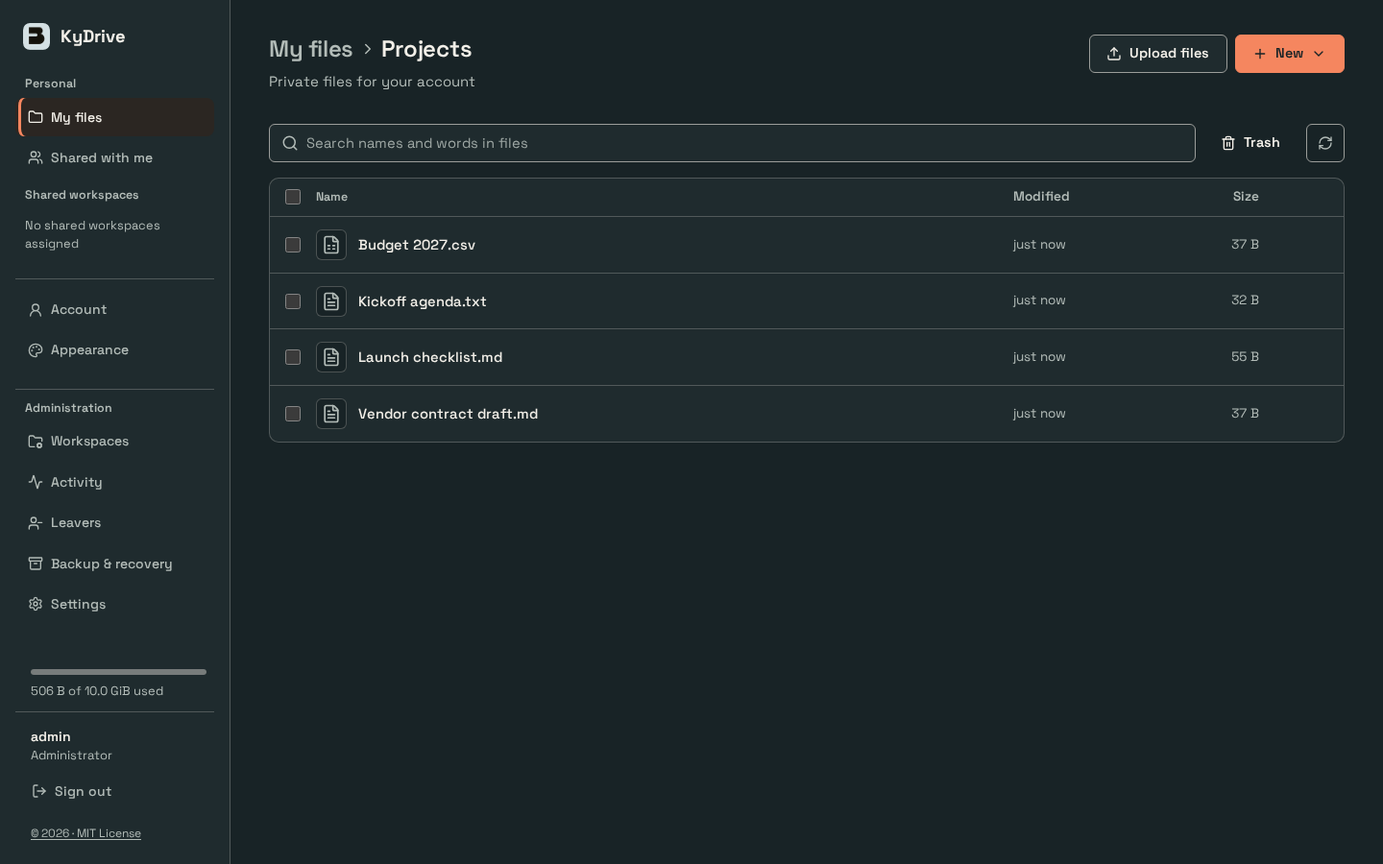
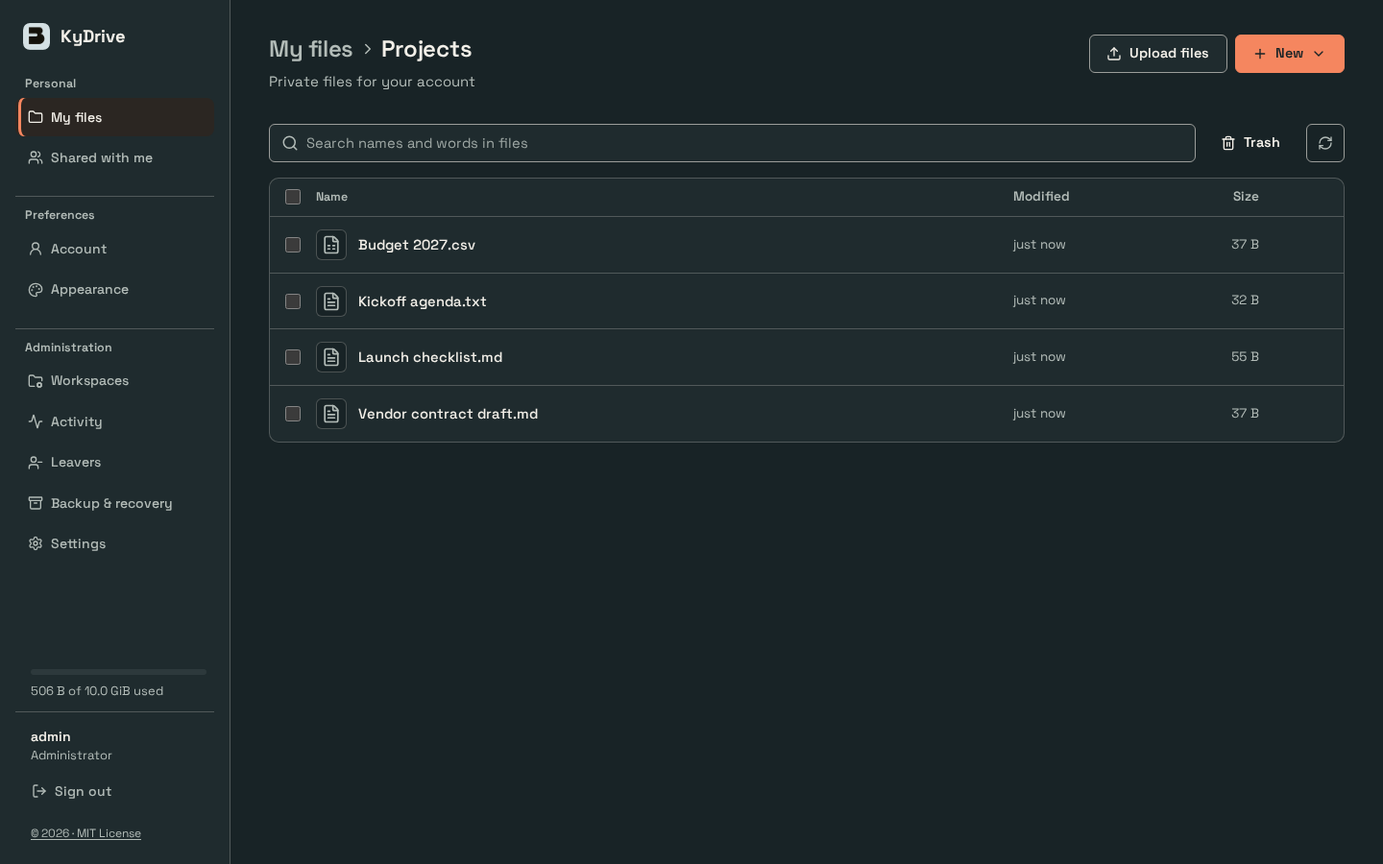
Council round 2: honest storage, touch row menus, schedule state
- The storage meter is a light track with an accent fill sized to the
  share used, so near-empty storage reads as empty (unit-tested).
- Row menus always show on touch, coarse pointers and phones.
- The Backup schedule card says it waits for a recovery key or a
  destination instead of showing a next run it cannot make.
- Activity names audit actions in sentence case; the raw ID is the title.
- The nav hides the Shared workspaces label when there are none and
  labels Account and Appearance as Preferences.
- New shared workspace closes with Cancel (no icon); disabled Account
  buttons use the shared disabled style; the phone header is ~50px
  shorter with the hint and licence on one row.

Changed region(s): [[0.0, 0.2178, 0.125, 0.6533], [0.0312, 0.7467, 0.125, 0.8089], [0.0312, 0.6844, 0.0625, 0.7156]]

diff --git a/web/src/styles/theme.css b/web/src/styles/theme.css
@@ -119,10 +119,8 @@ summary:focus-visible { outline-offset: 4px; }
 .app-nav-empty { font-size: .8rem; color: var(--ink); padding: .4rem .65rem; }
 .app-header-actions { display: flex; flex-direction: column; gap: .75rem; margin-top: auto; }
 .sidebar-storage { display: grid; gap: .4rem; padding: 0 var(--ky-space-2) 0 var(--ky-space-3); font-size: var(--ky-type-meta); color: var(--ink); }
-.sidebar-storage meter { -webkit-appearance: none; appearance: none; width: 100%; height: 6px; border: 0; border-radius: 999px; background: var(--line); overflow: hidden; }
-.sidebar-storage meter::-webkit-meter-bar { height: 6px; border: 0; border-radius: 999px; background: var(--line); }
-.sidebar-storage meter::-webkit-meter-optimum-value { border-radius: 999px; background: var(--accent); }
-.sidebar-storage meter::-moz-meter-bar { border-radius: 999px; background: var(--accent); }
+.storage-bar { height: 6px; border-radius: 999px; background: color-mix(in srgb, var(--ink) 10%, transparent); overflow: hidden; }
+.storage-bar-fill { display: block; height: 100%; border-radius: inherit; background: var(--accent); }
 .app-preference { display: flex; align-items: center; gap: .55rem; font-size: .82rem; color: var(--ink); cursor: pointer; }
 .app-main { min-width: 0; }
 .app-notice { margin: 1.5rem 2.5rem 0; }
@@ -148,7 +146,6 @@ summary:focus-visible { outline-offset: 4px; }
 .panel-header > :first-child { display: flex; align-items: center; gap: .5rem; }
 .panel-header svg { color: var(--ink); }
 .panel-section { margin-top: 1.5rem; padding-top: 1.25rem; border-top: 1px solid var(--line); }
-.account-page button:disabled { opacity: 1; background: var(--panel-hover); border-color: var(--line-strong); color: var(--ink); }
 .account-page .panel-section > .empty-note { border-top: 0; padding-top: .35rem; }
 .account-preferences h2 { font-size: var(--ky-type-section); font-weight: 600; margin-bottom: .75rem; }
 .account-preferences .app-preference { font-size: var(--ky-type-body); }
@@ -344,7 +341,8 @@ dialog.dialog::backdrop, dialog.drive-preview-dialog::backdrop { background: rgb
 .drive-table td.num { width: 7rem; }
 /* Row menus are borderless and appear on row hover or focus; keyboard users reach them by Tab. */
 .row-menu > .icon-btn, .row-menu > .icon-btn:hover:not(:disabled) { border-color: transparent; }
-@media (hover: hover) {
+/* Touch screens and phones have no hover: their row menus always show. */
+@media (hover: hover) and (pointer: fine) and (min-width: 721px) {
   .drive-table tbody tr .row-menu > .icon-btn { opacity: 0; }
   .drive-table tbody tr:is(:hover, :focus-within, .is-selected) .row-menu > .icon-btn,
   .row-menu > .icon-btn[aria-expanded="true"] { opacity: 1; }
@@ -465,9 +463,9 @@ a.drive-file-name:hover, .drive-file-name.btn-link:hover { color: var(--ink-stro
 /* Phones retain identity beside the brand and keep every destination in one scrolling row. */
 @media (max-width: 720px) {
   .app-shell { display: block; }
-  .app-header { position: static; height: auto; overflow: visible; display: grid; grid-template-columns: minmax(0, 1fr) auto; align-items: center; gap: 8px 12px; padding: 12px 16px 8px; border-right: 0; border-bottom: 1px solid var(--line); }
+  .app-header { position: static; height: auto; overflow: visible; display: grid; grid-template-columns: minmax(0, 1fr) auto; align-items: center; gap: 2px 12px; padding: 6px 16px 6px; border-right: 0; border-bottom: 1px solid var(--line); }
   .app-brand { padding: 0; grid-row: 1; }
-  .app-navs { display: flex; grid-column: 1 / -1; grid-row: 2; gap: 4px; overflow-x: auto; scrollbar-width: none; margin: 0 -16px; padding: 4px 16px; }
+  .app-navs { display: flex; grid-column: 1 / -1; grid-row: 2; gap: 4px; overflow-x: auto; scrollbar-width: none; margin: 0 -16px; padding: 2px 16px 4px; }
   .app-nav { flex: none; flex-direction: row; gap: 4px; }
   .app-nav + .app-nav { padding: 0 0 0 4px; border-top: 0; border-left: 1px solid var(--line); }
   .app-nav button { width: auto; flex: 0 0 auto; min-height: 2.5rem; border-left: 0; border-bottom: 3px solid transparent; white-space: nowrap; }
@@ -476,7 +474,7 @@ a.drive-file-name:hover, .drive-file-name.btn-link:hover { color: var(--ink-stro
   .app-nav-label { display: none; }
   .app-nav-empty { display: none; }
   .app-header-actions { display: contents; }
-  .app-nav-hint { display: block; grid-column: 1 / -1; grid-row: 3; font-size: .75rem; color: var(--ink); }
+  .app-nav-hint { display: block; grid-column: 1; grid-row: 3; font-size: .75rem; color: var(--ink); }
   .drive-preview-dialog header { grid-template-columns: minmax(0, 1fr) auto; padding: 1rem; }
   .drive-preview-dialog header .button-row { grid-column: 1 / -1; grid-row: 2; }
   .drive-preview-dialog header .icon-btn { grid-column: 2; }
@@ -488,8 +486,9 @@ a.drive-file-name:hover, .drive-file-name.btn-link:hover { color: var(--ink-stro
   .app-header .ky-user-copy { max-width: 8rem; padding: 0; }
   .app-header :is(.ky-user-name, .ky-user-role) { font-size: .75rem; }
   .app-header .ky-user-signout { width: auto; padding: 0 .6rem; }
-  .app-header-actions > footer, .sidebar-storage { grid-column: 1 / -1; }
-  .sidebar-storage { grid-template-columns: 6rem auto; align-items: center; justify-content: start; gap: .6rem; padding: 0; }
+  /* Hint and licence share a row; storage sits under them. */
+  .app-header-actions > footer { grid-column: 2; grid-row: 3; justify-self: end; }
+  .sidebar-storage { grid-column: 1 / -1; grid-row: 4; grid-template-columns: 5rem auto; align-items: center; justify-content: start; gap: .6rem; padding: 0; }
   .app-header .ky-license-link { margin-left: 0; }
   .drive-crumb .btn-link { font-size: 1.4rem; }
   .ky-page-head > .page-actions { width: 100%; }

diff --git a/web/src/pages/auditLabels.ts b/web/src/pages/auditLabels.ts
@@ -1,0 +1,69 @@
+// Readable labels for audit action IDs; unknown IDs fall back to the ID in sentence case.
+const labels: Record<string, string> = {
+  'admin.backup_export': 'Capsule downloaded',
+  'admin.backup_key_pin': 'Recovery key pinned',
+  'admin.backup_run': 'Backup run',
+  'admin.backup_schedule': 'Backup schedule changed',
+  'admin.backup_unpair': 'KyRecovery unpaired',
+  'admin.bulk_retention': 'Document retention changed',
+  'admin.device_policy': 'Computer policy changed',
+  'admin.guest_links': 'Guest link policy changed',
+  'admin.trash_retention': 'Trash retention changed',
+  'app_password.created': 'App password created',
+  'app_password.expired': 'App password expired',
+  'app_password.revoked': 'App password revoked',
+  'app_password.scope_changed': 'Agent access changed',
+  'auth.directory_role_changed': 'Directory role changed',
+  'auth.local_admin_renamed': 'Local administrator renamed',
+  'auth.login': 'Signed in',
+  'auth.mfa_disabled': 'Two-step verification turned off',
+  'auth.mfa_enabled': 'Two-step verification turned on',
+  'auth.mfa_recovery_code': 'Recovery code used',
+  'auth.mfa_totp': 'Authenticator code used',
+  'auth.password_changed': 'Password changed',
+  'auth.sso_backchannel_logout': 'Signed out by single sign-on',
+  'backup.paired': 'Paired with KyRecovery',
+  'backup.pair_failed': 'KyRecovery pairing failed',
+  'device.linked': 'Computer linked',
+  'device.revoked': 'Computer revoked',
+  'file.moved': 'File moved',
+  'file.purged': 'File deleted permanently',
+  'file.retention_purged': 'File removed by retention',
+  'file.trash_changed': 'File trashed or restored',
+  'file.version_created': 'New version uploaded',
+  'folder.created': 'Folder created',
+  'folder.moved': 'Folder moved',
+  'folder.purged': 'Folder deleted permanently',
+  'folder.restored': 'Folder restored',
+  'folder.retention_purged': 'Folder removed by retention',
+  'folder.trashed': 'Folder moved to trash',
+  'link.created': 'Link created',
+  'link.opened': 'Link opened',
+  'link.revoked': 'Link revoked',
+  'share.removed': 'Share removed',
+  'share.saved': 'Shared',
+  'upload.cancelled': 'Upload cancelled',
+  'upload.started': 'Upload started',
+  'user.created': 'Account created',
+  'user.deactivated': 'Account deactivated',
+  'user.deleted': 'Account deleted',
+  'user.updated': 'Account updated',
+  'version.purged': 'Version deleted',
+  'version.retention_purged': 'Version removed by retention',
+  'workspace.created': 'Workspace created',
+  'workspace.deleted': 'Workspace deleted',
+  'workspace.handed_over': 'Leaver files handed over',
+  'workspace.permission_changed': 'Group permission changed',
+  'workspace.personal_created': 'My files created',
+  'workspace.quota_changed': 'Quota changed',
+  'workspace.renamed': 'Workspace renamed',
+  'workspace.retention_changed': 'Workspace retention changed',
+  'workspace.sharing_changed': 'Editor sharing changed',
+};
+
+export function auditLabel(action: string): string {
+  const known = labels[action];
+  if (known) return known;
+  const words = action.replace(/[._]+/g, ' ').trim();
+  return words ? words[0].toUpperCase() + words.slice(1) : action;
+}

diff --git a/web/src/components/AppHeader.tsx b/web/src/components/AppHeader.tsx
@@ -37,6 +37,14 @@ const adminItems: NavItem[] = [
   { id: 'settings', label: 'Settings', icon: SettingsIcon },
 ];
 
+// A light track with an accent fill sized to the share used, so near-empty storage reads as empty.
+export function StorageBar({ used, quota }: { used: number; quota: number }) {
+  const percent = quota > 0 ? Math.min(100, Math.max(0, used / quota * 100)) : 0;
+  return <div className="storage-bar" role="meter" aria-label="Storage used" aria-valuemin={0} aria-valuemax={quota} aria-valuenow={Math.min(used, quota)} aria-valuetext={`${bytes(used)} of ${bytes(quota)} used`}>
+    <span className="storage-bar-fill" style={{ width: `${percent}%` }} />
+  </div>;
+}
+
 export const AppHeader: React.FC<AppHeaderProps> = ({ appName, activeTab, onTabChange, user, onLogout, workspaces, selectedWorkspace, onWorkspaceSelect, version }) => {
   const navsRef = useRef<HTMLDivElement>(null);
   const aboutRef = useRef<HTMLDialogElement>(null);
@@ -83,11 +91,10 @@ export const AppHeader: React.FC<AppHeaderProps> = ({ appName, activeTab, onTabC
             <h2 className="app-nav-label">Personal</h2>
             {workspaces.filter(w => w.kind === 'personal').map(w => item(w.id, 'My files', Folder, drive(w.id), () => onWorkspaceSelect(w.id)))}
             {item(SHARED_WITH_ME, 'Shared with me', Users, drive(SHARED_WITH_ME), () => onWorkspaceSelect(SHARED_WITH_ME))}
-            <h2 className="app-nav-label">Shared workspaces</h2>
+            {workspaces.some(w => w.kind === 'shared') && <h2 className="app-nav-label">Shared workspaces</h2>}
             {workspaces.filter(w => w.kind === 'shared').map(w => item(w.id, w.name, Folder, drive(w.id), () => onWorkspaceSelect(w.id)))}
-            {!workspaces.some(w => w.kind === 'shared') && <p className="app-nav-empty">No shared workspaces assigned</p>}
           </nav>
-          <nav className="app-nav" aria-label="Primary">{tabs(accountItems)}</nav>
+          <nav className="app-nav" aria-label="Primary"><h2 className="app-nav-label">Preferences</h2>{tabs(accountItems)}</nav>
           {user.role === 'admin' && <nav className="app-nav" aria-label="Administration">
             <h2 className="app-nav-label">Administration</h2>
             {tabs(adminItems)}
@@ -96,7 +103,7 @@ export const AppHeader: React.FC<AppHeaderProps> = ({ appName, activeTab, onTabC
         <p className="app-nav-hint">Scroll for more destinations</p>
         <div className="app-header-actions">
           {personal && personal.quota > 0 && <div className="sidebar-storage">
-            <meter min={0} max={personal.quota} value={Math.min(personal.used, personal.quota)} aria-label="Storage used" />
+            <StorageBar used={personal.used} quota={personal.quota} />
             <p>{bytes(personal.used)} of {bytes(personal.quota)} used</p>
           </div>}
           <div className="ky-user">

diff --git a/web/src/pages/Admin.tsx b/web/src/pages/Admin.tsx
@@ -6,6 +6,7 @@ import { When } from '../components/When';
 import { HttpError, bytes, change, list, record, response, workspace } from './drive/client';
 import type { Workspace } from './drive/client';
 import { Leavers } from './drive/Leavers';
+import { auditLabel } from './auditLabels';
 
 // Administration destinations in the sidebar: shared workspaces, operational status and leavers.
 
@@ -44,7 +45,7 @@ export function AdminWorkspaces({ workspaces, onWorkspacesChange, onOpen }: { wo
         <td className="num">{bytes(w.used)}</td><td className="num">{bytes(w.quota)}</td>
       </tr>)}</tbody>
     </table></div></div>}
-    {creating && <Dialog title="New shared workspace" description="Give a KyIdentity group access from its Workspace settings once it exists." onClose={() => setCreating(false)} onSubmit={() => void create()}
+    {creating && <Dialog closeButton={false} title="New shared workspace" description="Give a KyIdentity group access from its Workspace settings once it exists." onClose={() => setCreating(false)} onSubmit={() => void create()}
       footer={<><button type="button" className="btn-secondary" onClick={() => setCreating(false)}>Cancel</button><button disabled={busy || !name.trim()}>Create workspace</button></>}>
       <label className="field">Name<input autoFocus required value={name} onChange={e => setName(e.target.value)} /></label>
       <label className="field">Quota (MiB)<input type="number" min="1" required value={quota} onChange={e => setQuota(e.target.valueAsNumber)} /></label>
@@ -97,7 +98,7 @@ export function AdminActivity() {
       </section>
       <section className="panel" aria-labelledby="audit-heading">
         <h2 id="audit-heading">Recent audit events</h2>
-        {audit.length === 0 ? <p className="empty-note">No audit events yet.</p> : <ul className="drive-audit" aria-label="Recent audit events">{audit.map((e, i) => <li key={i}><When value={e.created} /><code>{e.action}</code></li>)}</ul>}
+        {audit.length === 0 ? <p className="empty-note">No audit events yet.</p> : <ul className="drive-audit" aria-label="Recent audit events">{audit.map((e, i) => <li key={i}><When value={e.created} /><span title={e.action}>{auditLabel(e.action)}</span></li>)}</ul>}
       </section>
     </div>
   </section>;

diff --git a/web/src/components/components.test.tsx b/web/src/components/components.test.tsx
@@ -1,7 +1,8 @@
 import { afterEach, describe, expect, it, vi } from 'vitest';
 import { act, cleanup, fireEvent, render, screen, within } from '@testing-library/react';
 import { Menu } from './Menu';
-import { AppHeader } from './AppHeader';
+import { AppHeader, StorageBar } from './AppHeader';
+import { auditLabel } from '../pages/auditLabels';
 import { useConfirm } from './Dialog';
 import { relative, toDate } from './time';
 import { When } from './When';
@@ -168,6 +169,30 @@ describe('Login', () => {
     expect(screen.getByRole('link', { name: 'Continue with Single Sign On' }).getAttribute('href')).toBe('/api/sso/kysignon/login');
     expect(container.querySelector('.ky-auth-divider')).toBeTruthy();
     vi.unstubAllGlobals();
+  });
+});
+
+describe('StorageBar', () => {
+  it('fills to the share used, so near-empty storage reads as empty', () => {
+    const fill = (used: number, quota: number) => {
+      const { container } = render(<StorageBar used={used} quota={quota} />);
+      const width = (container.querySelector('.storage-bar-fill') as HTMLElement).style.width;
+      cleanup();
+      return width;
+    };
+    expect(fill(506, 10 * 1024 ** 3)).toMatch(/^0\.0+\d*%$|^4\.\d+e-\d+%$/);
+    expect(parseFloat(fill(506, 10 * 1024 ** 3))).toBeLessThan(0.001);
+    expect(fill(512, 1024)).toBe('50%');
+    expect(fill(2048, 1024)).toBe('100%');
+    expect(fill(5, 0)).toBe('0%');
+  });
+});
+
+describe('auditLabel', () => {
+  it('names known actions in sentence case and falls back to the ID', () => {
+    expect(auditLabel('file.version_created')).toBe('New version uploaded');
+    expect(auditLabel('upload.started')).toBe('Upload started');
+    expect(auditLabel('scim.group.replaced')).toBe('Scim group replaced');
   });
 });
 

diff --git a/web/src/components/Dialog.tsx b/web/src/components/Dialog.tsx
@@ -4,8 +4,8 @@ import { X } from 'lucide-react';
 
 // Dialog is the suite's modal: a native <dialog> with a titled header, a scrolling body and a
 // footer of actions (secondary first, primary last). Escape and the close button call onClose.
-export function Dialog({ title, description, children, footer, onClose, onSubmit, wide, className }: {
-  title: ReactNode; description?: ReactNode; children?: ReactNode; footer?: ReactNode;
+export function Dialog({ title, description, children, footer, onClose, onSubmit, wide, className, closeButton = true }: {
+  title: ReactNode; description?: ReactNode; children?: ReactNode; footer?: ReactNode; closeButton?: boolean;
   onClose: () => void; onSubmit?: (e: FormEvent<HTMLFormElement>) => void; wide?: boolean; className?: string;
 }) {
   const ref = useRef<HTMLDialogElement>(null);
@@ -20,7 +20,8 @@ export function Dialog({ title, description, children, footer, onClose, onSubmit
   const inner = <>
     <header className="dialog-header">
       <div><h2 id={`${id}-title`}>{title}</h2>{description && <p>{description}</p>}</div>
-      <button type="button" className="icon-btn" aria-label="Close" onClick={onClose}><X size={18} aria-hidden="true" /></button>
+      {/* Without the icon, the footer's Cancel and Escape close the dialog. */}
+      {closeButton && <button type="button" className="icon-btn" aria-label="Close" onClick={onClose}><X size={18} aria-hidden="true" /></button>}
     </header>
     <div className="dialog-body">{children}</div>
     {footer && <footer className="dialog-footer">{footer}</footer>}

diff --git a/web/src/pages/Backup.tsx b/web/src/pages/Backup.tsx
@@ -434,10 +434,11 @@ export const Backup: React.FC = () => {
         <div className="dr-fact">
           <div className="dr-fact-label">
             <span>Schedule</span>
-            <Badge tone={scheduleOn ? 'success' : 'danger'}>{every(status?.interval_sec)}</Badge>
+            <Badge tone={scheduleOn && canBackUp ? 'success' : scheduleOn ? 'muted' : 'danger'}>{every(status?.interval_sec)}</Badge>
           </div>
-          <div className="dr-fact-value">{scheduleOn && status?.next_run_at ? `Next ${when(status.next_run_at)}` : 'Manual only'}</div>
-          <div className="dr-fact-note">Counts from the last attempt, successful or not</div>
+          {/* A schedule cannot run without a pinned key and a destination: say what it waits for. */}
+          <div className="dr-fact-value">{!scheduleOn ? 'Manual only' : !keyPinned ? 'Waiting for recovery key' : !canBackUp ? 'Waiting for a destination' : status?.next_run_at ? `Next ${when(status.next_run_at)}` : 'Manual only'}</div>
+          <div className="dr-fact-note">{scheduleOn && !canBackUp ? 'No scheduled run until backups can be made' : 'Counts from the last attempt, successful or not'}</div>
         </div>
       </div>
 

diff --git a/web/src/pages/Backup.test.tsx b/web/src/pages/Backup.test.tsx
@@ -41,6 +41,17 @@ describe('Backup', () => {
     expect(screen.getByText(/KY_BACKUP_DIR not set/)).toBeTruthy();
   });
 
+  it('says what a schedule waits for instead of a next run it cannot make', async () => {
+    mockStatus({ key_pinned: false, paired: false, interval_sec: 86400, next_run_at: '2026-10-31T12:00:00Z', database_driver: 'sqlite', members: [] });
+    render(<Backup />);
+    expect(await screen.findByText('Waiting for recovery key')).toBeTruthy();
+    expect(screen.queryByText(/^Next /)).toBeNull();
+    cleanup();
+    mockStatus({ ...PAIRED, next_run_at: '2026-10-31T12:00:00Z' });
+    render(<Backup />);
+    expect(await screen.findByText(/^Next /)).toBeTruthy();
+  });
+
   it('never renders the token', async () => {
     mockStatus({
       key_pinned: true,

diff --git a/web/AGENTS.md b/web/AGENTS.md
@@ -12,7 +12,7 @@ Owns user interface components, service worker caching, PWA installation manifes
 - Sign-out resets the shell (user, workspaces, selection, tab, settings, new-tab preference) only after the server confirms; a failed or unreachable logout keeps the session and shows an error.
 - A signed-in user with `must_change_password` sees only password replacement and sign-out. Replacement uses `secureFetch`, returns to login after session revocation, and never exposes the normal navigation before completion.
 - Strict TypeScript type safety without unused imports.
-- The authenticated shell uses one persistent 240px sidebar (ky-ui `shell.css` markup for the user block, licence line and About): Personal (My files, Shared with me), Shared workspaces, Account and Appearance, then for administrators an Administration section (Workspaces, Activity, Leavers, Backup & recovery, Settings). Exactly one item is current (accent rail and tint). The personal workspace's storage meter sits above the user block (name over role, never the same word twice; `Everyday account` for non-admins) and its labelled Sign out row. In dark schemes (`data-scheme` on the root, set by `theme.ts`) `.brand-mark` is inverted to a light tile with a dark mark, on sign-in and in the sidebar. Below 720 px the brand and sign-out share the top row, both navigations (wrapped in `.app-navs`, `display: contents` on desktop) scroll as one row that `AppHeader` scrolls to keep the current destination in view without moving the page, and the new-tab preference sits under it. Evidence: `docs/ui-visual-refinement-2026-10-26/`.
+- The authenticated shell uses one persistent 240px sidebar (ky-ui `shell.css` markup for the user block, licence line and About): Personal (My files, Shared with me), Shared workspaces (the label only when some exist), Preferences (Account, Appearance), then for administrators an Administration section (Workspaces, Activity, Leavers, Backup & recovery, Settings). Exactly one item is current (accent rail and tint). The personal workspace's storage meter (`StorageBar`: light track, accent fill sized to the share used) sits above the user block (name over role, never the same word twice; `Everyday account` for non-admins) and its labelled Sign out row. In dark schemes (`data-scheme` on the root, set by `theme.ts`) `.brand-mark` is inverted to a light tile with a dark mark, on sign-in and in the sidebar. Below 720 px the brand and sign-out share the top row, both navigations (wrapped in `.app-navs`, `display: contents` on desktop) scroll as one row that `AppHeader` scrolls to keep the current destination in view without moving the page, and the new-tab preference sits under it. Evidence: `docs/ui-visual-refinement-2026-10-26/`.
 - The sidebar footer (`© <year> · MIT License`, `AppHeader`) opens the native `ky-about` dialog (outlined Close; Escape and backdrop close it; focus returns to the link): app name, the server version from the signed-in `/api/auth/me` `version` field, and `src/mit.txt`, a copy of the root `LICENSE.txt` (`TestWebLicenceMatchesRepo` in `internal/api`; the web build sees only `web/`). `browser/launch-fixes.spec.mjs` checks it against the real server.
 - Theme selection (`theme.ts`, KyCalendar's reference) saves `system` (Busnes following the OS), a pair ID (that pair following the OS) or a half ID under `ky_theme`; aliases resolve to their half (`patina` is Ky Dark, `Paper Clean` Nord Light) and removed IDs (`cyber`, `oled`, ...) fall back to `system`. The resolved half is `data-theme` on the root; named halves are applied inline by `applyThemeVariables`. Every signed-in user has an Appearance page (primary navigation, lucide `Palette`): six pair cards with Match system / Light / Dark segments in one native radio group, the selected segment marked with a check. The shell has no other theme selector; only the login page keeps a compact top-right dropdown over the same choices. The administrator Settings page's System tab opens Appearance (Open Appearance).
 - Authenticated state-changing requests use `secureFetch` so the CSRF cookie (`__Host-ky_csrf` on HTTPS host-only deployments, else `ky_csrf`) is mirrored into `X-CSRF-Token`; the editor bootstrap script reads it the same way. Login and MFA posts send `Content-Type: application/json`.
@@ -21,13 +21,13 @@ Owns user interface components, service worker caching, PWA installation manifes
 - Worker caching is limited to the same-origin public shell, manifest and assets. HTML is network-first with offline fallback so deployments refresh; dynamic/auth routes stay uncached. `vite.config.ts` stamps a build id (hash of the output file names) into `dist/sw.js` as the cache name, so `activate` evicts the previous deploy's hashed assets; the build fails if `public/sw.js` loses its single `__BUILD_ID__` placeholder.
 - The Account page also lists app passwords (`src/pages/AppPasswords.tsx`): create by device name, show the server URL, username and password once, list name, created and last use, revoke after a styled confirmation (`useConfirm`). Kind *AI agent* creates an agent token instead: *Read only* (default) or *Read and write* (with the write warning), an optional *Limit to folder* path; the token is shown once with OpenClaw and Hermes Agent config reading `KYDRIVE_TOKEN` and the skill install commands. Every issuing screen names who gets the credential and its level (`grant`: the form before creating, the one-time reveal, the widening confirm); never a generic "an app wants access" prompt. Agent rows show an access select (widening to write asks `window.confirm`), the folder limit or that it is gone, and the 90-day revocation date.
 - Linked computers: `/link?redirect=&challenge=&state=&name=&platform=` (opened by the desktop app) is handled by `src/pages/LinkDevice.tsx`. The query moves to session storage and out of the address bar at once, so it survives sign-in, KyIdentity included; once signed in (and past any password replacement) the app shows only the approval screen: name, platform, request IP (`/healthz` `clientIp`) and time. Nothing posts on load. A request failing the server's rules (loopback-only redirect, S256 challenge, state, name, platform) shows an error and no button; Approve posts `/api/devices/approve` once and navigates only to a redirect that starts with the requested one; Cancel and Approve clear the stored request. The Account page lists computers (`src/pages/Devices.tsx`: name, platform, linked, last used) with a Revoke dialog: "Also remove KyDrive files from this computer", defaulting to the policy and disabled when locked, plus the offline and no-guarantee caveats; it sends `DELETE /api/devices/{id}?wipe=`. The admin Settings page has `DevicePolicySettings` (Computers: wipe default and lock, `/api/drive/device-policy`).
-- Account aligns with the other pages at the left gutter; credential creation and dialog completion are secondary actions, and disabled Account buttons use neutral theme tokens.
+- Account aligns with the other pages at the left gutter; credential creation and dialog completion are secondary actions; disabled buttons share the global disabled style.
 - Every signed-in user has an Account page (`src/pages/TwoFactor.tsx`). Local accounts turn TOTP on (setup key plus an `otpauth://` link, no QR renderer or dependency), confirm with a code and see the recovery codes once with a save warning; turning it off takes the password and a TOTP or recovery code. Directory accounts are told their identity provider manages MFA.
 - KyDrive deployments use SQLite; inherited recovery UI still reports snapshot preconditions. The Recovery screen warns when `key_in_data_dir` is set.
 - The sign-in screen is ky-ui `shell.css` `ky-auth` markup: centred mark, app name h1, one-line tagline (organization files and shared workspaces), one card, the inline `ky-auth-check` browser-check line (no box) and a full-width "Sign in" with the leading sign-in icon. The suite SSO button `Continue with Single Sign On` appears below a bare divider only when `/api/settings` `sso_enabled` is true (SSO on with a KySignOn issuer and client ID).
 
 - My files and Shared workspaces live in the main application sidebar, with no redundant Files destination. The selected workspace names the page. Personal workspace creation is an idempotent authenticated POST before listing. New file offers document/spreadsheet/presentation/markdown/rtf/whiteboard creation with a native name dialog, then opens the created file in Euro-Office (for Office/PDF/Markdown/RTF) or the Excalidraw whiteboard (for `.excalidraw`). The drive's page head is the command area: the breadcrumb is the title (ancestors are buttons, the current folder, Trash or Workspace settings is the plain-text h1, `nav` "Folder path"), with Upload files (secondary) and the filled "+ New" menu (New folder, the document types, Upload folder) on the right; search, Trash and Refresh sit in one row below it. Administration pages (`src/pages/Admin.tsx`): Workspaces lists shared workspaces and creates one in a dialog ("+ New workspace"; a 409 says the name is taken), Activity shows directory/editor/backup status and recent audit events (5 s refresh), Leavers holds the handover panel. Settings sections are tabs (Trash, Guest links, Computers, System); no page uses a second column. Existing administrator guards remain unchanged.
-- "Open files in a new tab" (Account → Files, every signed-in user) is a per-account server preference, default on, read from `/api/auth/me` and saved with `PUT /api/auth/preferences`; a failed save reverts the checkbox. On, file links and Create & open use a new tab (the tab is opened inside the click so pop-up blockers allow it, then pointed at the editor; a blocked tab falls back to in-place). Off, files open in the drive tab. The browser suite stays under the server's 20 sign-ins per minute. The file table has selection checkboxes (editors; select all is tri-state), Name, Modified (relative time, full local date in the `<time>` title) and right-aligned Size; checked rows get a bulk bar (Move to trash; in Trash, Restore and Delete permanently with one confirmation; Clear selection). Row ⋯ menus are borderless and appear on row hover or focus (always shown without hover). Folders are rows in the file list and a breadcrumb shows and navigates the current path (`src/pages/drive/client.ts` wraps the API). Workspace settings contain group permissions and quotas; they do not crowd the file list. Administrators also get a Workspace panel there (`src/pages/drive/WorkspaceAdmin.tsx`, shared workspaces only): Rename (a 409 says the name is taken) and Delete workspace, which asks the styled danger confirmation naming what stops working, then clears the selection so the drive reopens My files; a 409 says only an empty workspace can be deleted.
+- "Open files in a new tab" (Account → Files, every signed-in user) is a per-account server preference, default on, read from `/api/auth/me` and saved with `PUT /api/auth/preferences`; a failed save reverts the checkbox. On, file links and Create & open use a new tab (the tab is opened inside the click so pop-up blockers allow it, then pointed at the editor; a blocked tab falls back to in-place). Off, files open in the drive tab. The browser suite stays under the server's 20 sign-ins per minute. The file table has selection checkboxes (editors; select all is tri-state), Name, Modified (relative time, full local date in the `<time>` title) and right-aligned Size; checked rows get a bulk bar (Move to trash; in Trash, Restore and Delete permanently with one confirmation; Clear selection). Row ⋯ menus are borderless and appear on row hover or focus where a fine pointer can hover; on touch, coarse pointers and below 720 px they always show. Activity shows audit actions as sentence-case labels (`src/pages/auditLabels.ts`) with the raw ID as the title. The Backup schedule card says what a schedule waits for (recovery key, destination) instead of a next run it cannot make. A `Dialog` can drop its ✕ (`closeButton={false}`) when its footer has Cancel; New shared workspace does. Folders are rows in the file list and a breadcrumb shows and navigates the current path (`src/pages/drive/client.ts` wraps the API). Workspace settings contain group permissions and quotas; they do not crowd the file list. Administrators also get a Workspace panel there (`src/pages/drive/WorkspaceAdmin.tsx`, shared workspaces only): Rename (a 409 says the name is taken) and Delete workspace, which asks the styled danger confirmation naming what stops working, then clears the selection so the drive reopens My files; a 409 says only an empty workspace can be deleted.
 - Uploads use resumable sessions (`src/pages/drive/upload.ts`): 32 MiB `Content-Range` chunks, progress from bytes the server acknowledged, resume from the server's count after a dropped chunk (3 retries with backoff, then Retry resumes the kept session); a refused upload cancels its session. Upload files (multi-select), Upload folder (`webkitdirectory`) and dropping files or folders on the file list share one queue (`Uploads.tsx`) that uploads one file at a time and reloads once it drains. Dropped folders are created parents first, reusing a live folder of the same name. Before uploading, names already taken in their folder (from a fresh file listing) are put to the user once per batch: *Replace (new version)* starts the session with `file` and the current `revision`, *Keep both* uploads under the first free `name (n).ext` (the server's guest-upload numbering), *Cancel* skips those files only. A 409 at session start (taken meanwhile) shows the same three choices on that row instead of the server message; nothing ever overwrites without a choice.
 - A search box above the drive (`Search.tsx`) opens its results below it (Escape or a click elsewhere hides them) and queries `/api/drive/search` after 2 characters and a 300 ms pause, lists name, workspace and path, marks the query in a name match's name (case-insensitive, as text), shows a content match's snippet as text with `<mark>` around its UTF-16 highlight ranges (never markup; bad ranges skipped, a malformed snippet refuses the response), says when results are capped, when some of the user's files are still being indexed and that contents match whole words, and opens the result's folder (switching workspace first when needed). Every folder row's menu, readers included, has Download zip.
 - Guest links: `/g/#<token>` renders `GuestPage` from `main.tsx` with no app chrome and no sign-in. It asks for a password on 401, lists the shared folder from its root down, downloads through a hidden POST form (so the browser saves natively and the token stays in the body) and, upload-only, sends files with the token in a header. The admin Settings page has `GuestLinkSettings` (off by default, longest lifetime); the Share dialog shows a guest-link section only while the policy is on.
